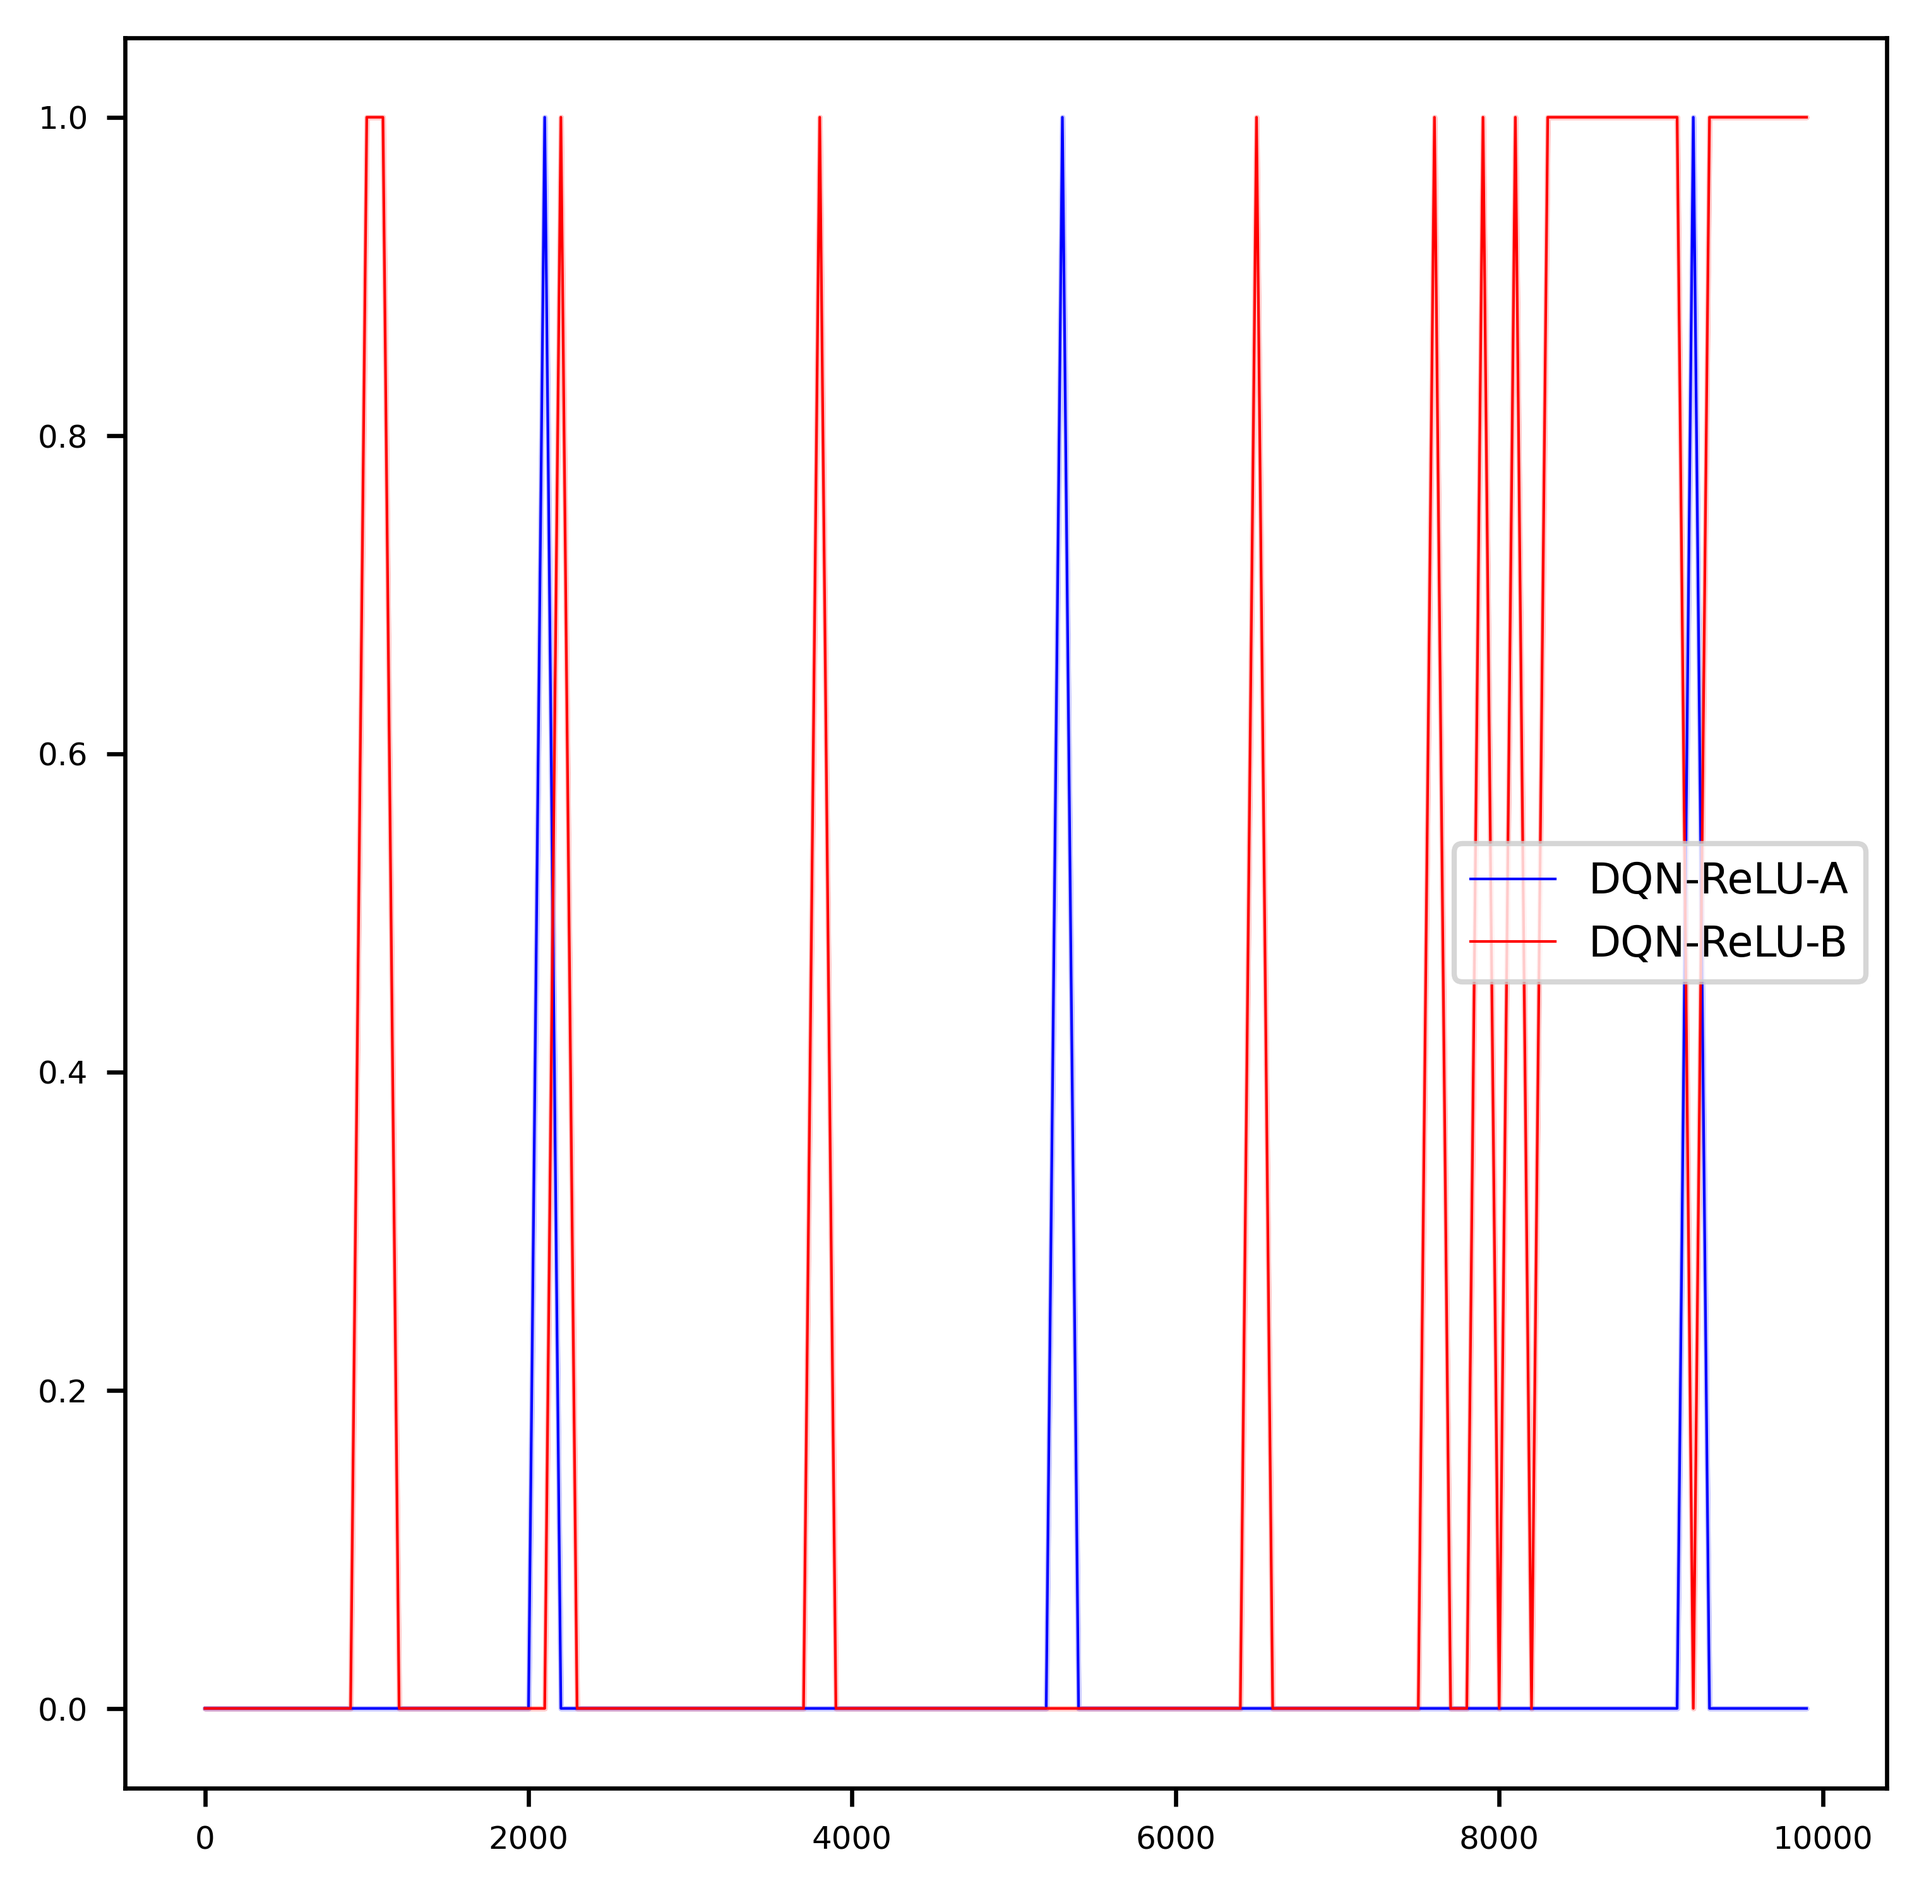
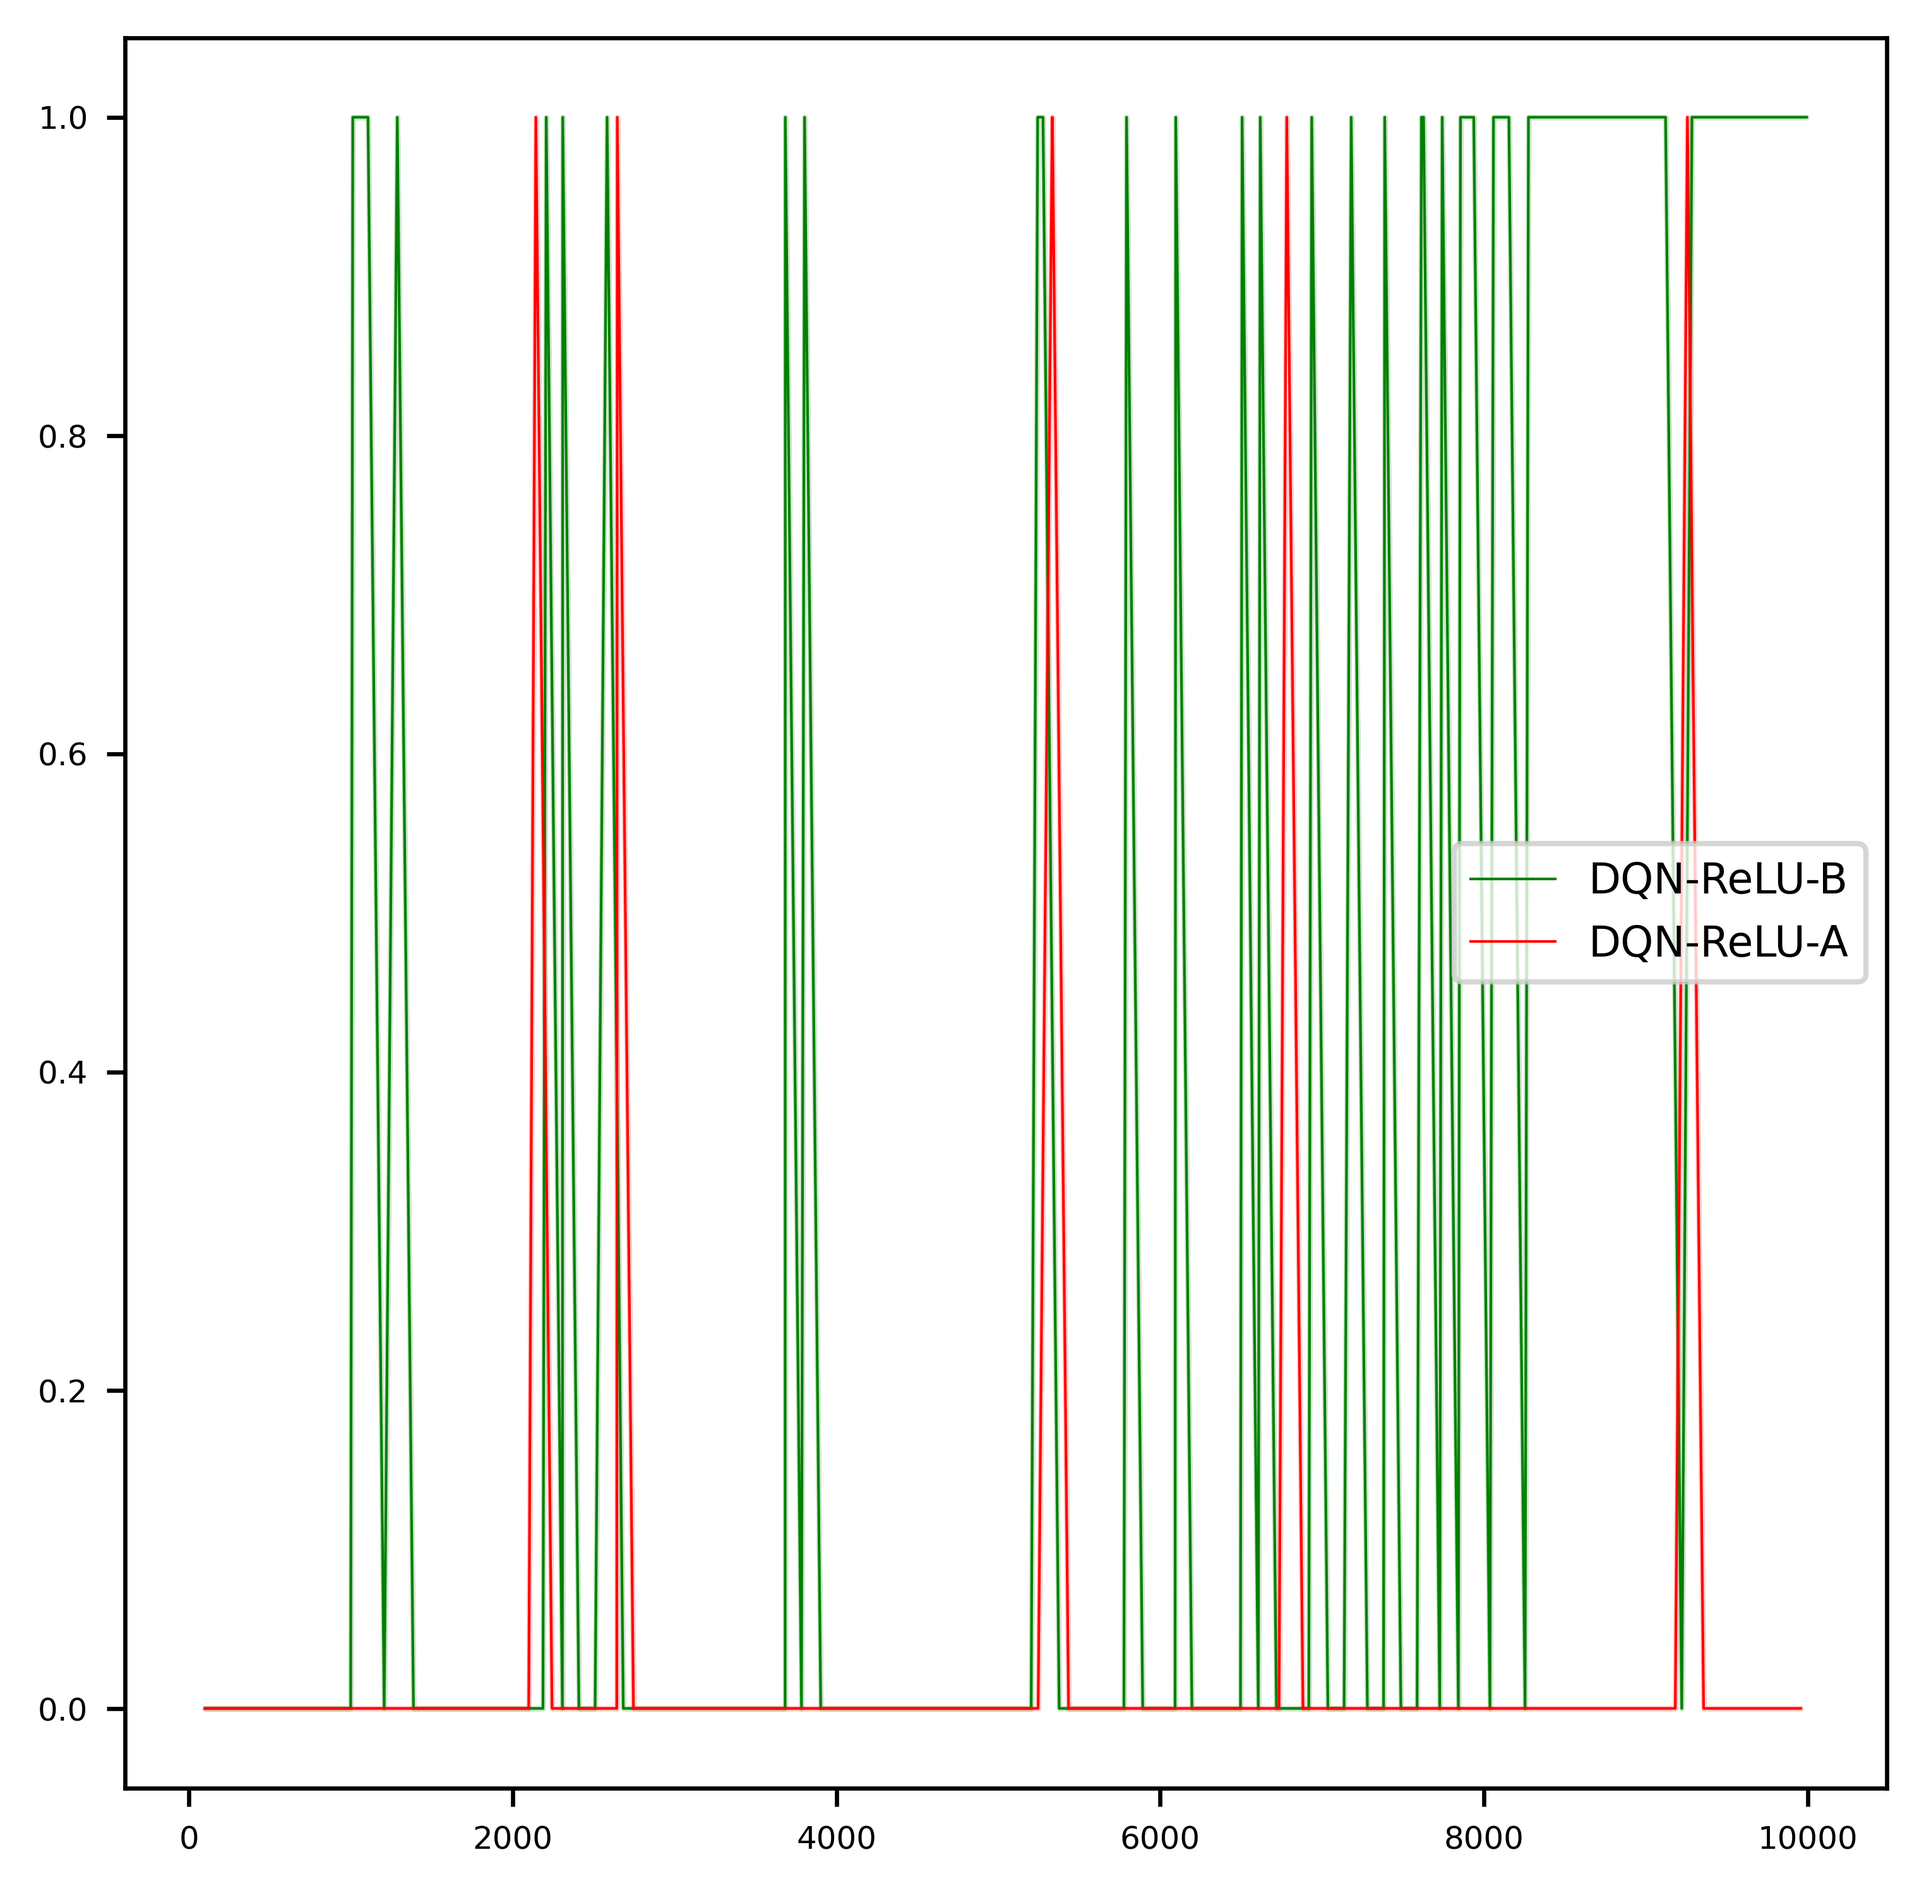
use local version of learning_curve_train.py and plot

diff --git a/experiments/Gridworld/learning_curve_train.py b/experiments/Gridworld/learning_curve_train.py
@@ -25,12 +25,12 @@ from experiment.tools import parseCmdLineArgs
 setDefaultConference('jmlr')
 
 COLORS = {
-    'DQN-ReLU-A': 'blue',
-    'DQN-ReLU-B': 'red',
+    'DQN-ReLU-A': 'red',
+    'DQN-ReLU-B': 'green',
 }
 
 # keep 1 in every SUBSAMPLE measurements
-SUBSAMPLE = 100   
+SUBSAMPLE = 1   
 
 if __name__ == "__main__":
     path, should_save, save_type = parseCmdLineArgs()
@@ -78,7 +78,19 @@ if __name__ == "__main__":
                 time_summary=TimeSummary.sum,
                 statistic=Statistic.mean,
             )
-            print(sub_df)
+
+            #-------------------------------------#
+            # Some quick analysis (temp)
+            #rows_with = sub_df.index[sub_df['return'] == 1].tolist()
+            #frames_at_return_1 = sub_df.loc[rows_with_return_1, 'frame'].tolist()
+            #print(f"List of 'frame' values where 'return' is 1: {frames_at_return_1}")
+            return_0 = sub_df.index[sub_df['return'] == 0].tolist()
+            return_1 = sub_df.index[sub_df['return'] == 1].tolist()
+            print(f"num of 0 return: {len(return_0)}")
+            print(f"num of 1 return: {len(return_1)}")
+            print(f"num of nan return: {len(sub_df['return'].tolist()) - len(return_0) - len(return_1)}")
+            #-------------------------------------#
+
             print('-' * 25)
             print(env, alg)
             Hypers.pretty_print(report)
@@ -87,7 +99,8 @@ if __name__ == "__main__":
                 sub_df,
                 report.uncertainty_set_configurations,
                 metric='return',
-                interpolation=lambda x, y: compute_step_return(x, y, exp.total_steps),
+                #interpolation=lambda x, y: compute_step_return(x, y, exp.total_steps),
+                interpolation=None,
             )
 
             xs = np.asarray(xs)[:, ::SUBSAMPLE]
